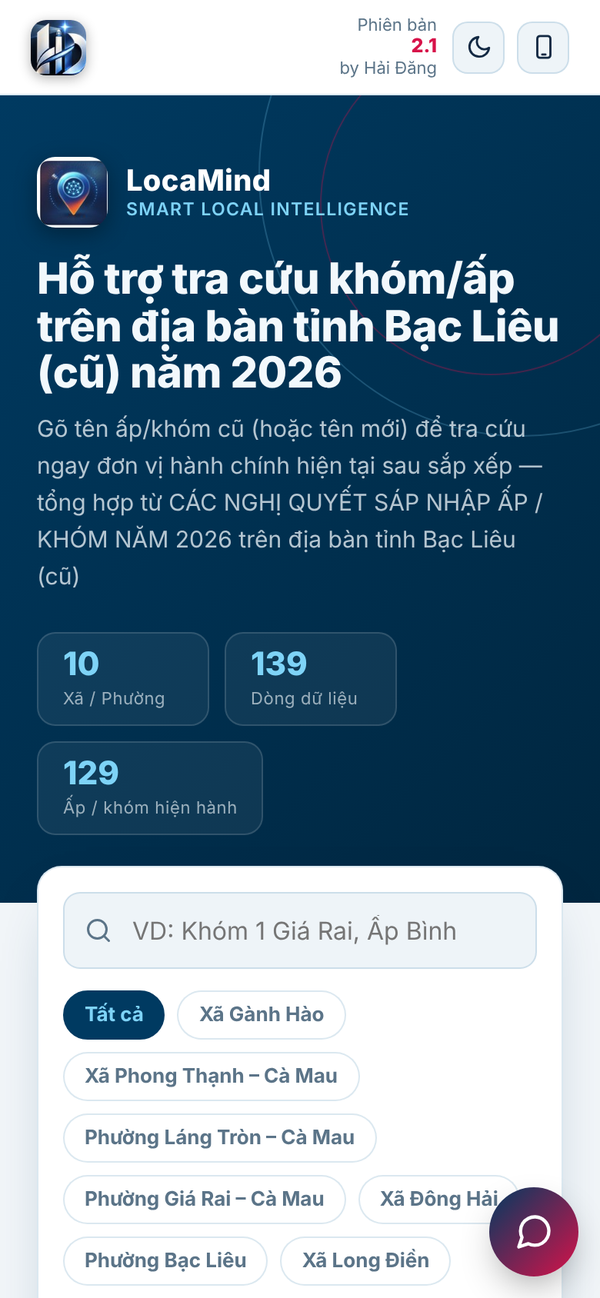
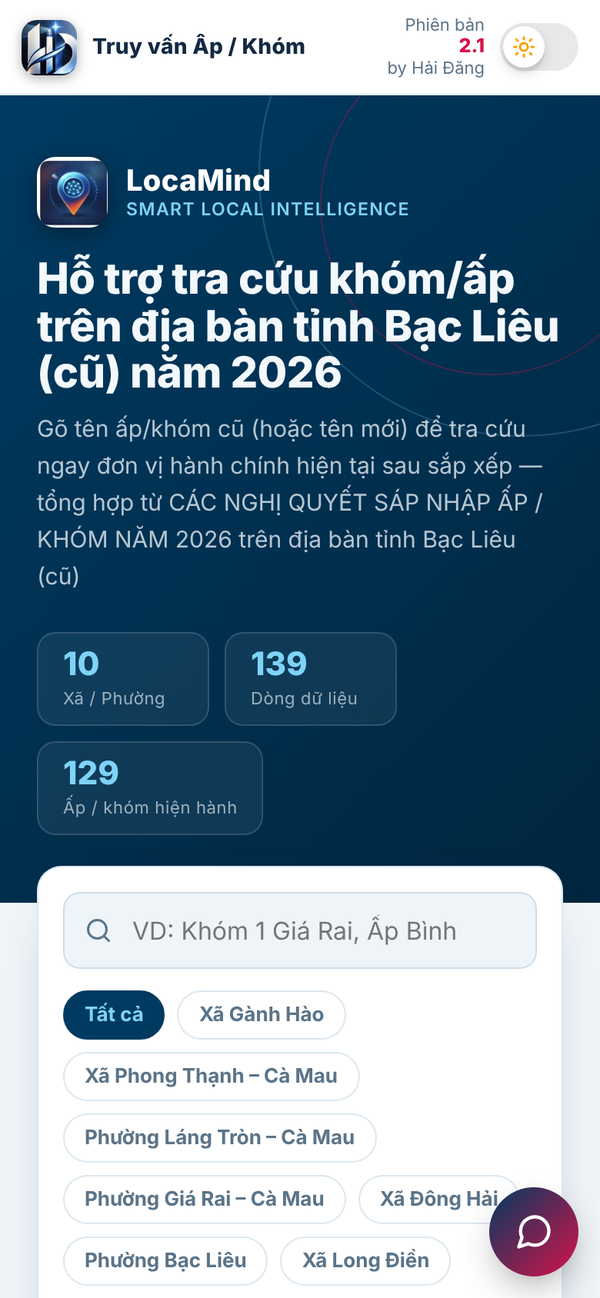
Công tắc sáng/tối kiểu iOS, đầu trang tự thích ứng màn hình, README trỏ về Vercel (#2)
- Thay nút sáng/tối bằng công tắc kiểu iOS (role="switch", hiệu ứng trượt, biểu tượng mặt trời/mặt trăng)
- Bỏ nút "xem dạng di động/máy tính": giao diện đã tự co giãn theo màn hình
- Đầu trang trên điện thoại hiện cả logo và tên (tự rút gọn khi màn hẹp) thay vì ẩn tên
- README: liên kết locamind.vercel.app, chụp lại ảnh giao diện

Claude-Session: https://claude.ai/code/session_01PeCG7Xj5ufj1dvFMBhtUjP

Changed region(s): [[0.03, 0.0, 0.51, 0.0616], [0.6, 0.0, 0.93, 0.0616], [0.57, 0.0308, 0.6, 0.0616]]

diff --git a/index.html b/index.html
@@ -48,15 +48,7 @@
     -webkit-font-smoothing:antialiased;
     transition:background .2s ease, color .2s ease;
   }
-  body.device-mobile-active{background:#d9e0e5;}
-  [data-theme="dark"] body.device-mobile-active{background:#03090f;}
-
   #appFrame{width:100%; transition:all .25s ease;}
-  #appFrame.device-mobile{
-    max-width:430px; margin:26px auto; border:10px solid #15202b;
-    border-radius:42px; overflow:hidden; max-height:880px; overflow-y:auto;
-    box-shadow:0 30px 60px -18px rgba(0,0,0,.5);
-  }
 
   .topbar{
     display:flex; align-items:center; justify-content:space-between;
@@ -69,13 +61,28 @@
   .topbar-right{display:flex; align-items:center; gap:8px; flex-shrink:0;}
   .version-badge{display:flex; flex-direction:column; align-items:flex-end; line-height:1.2; font-size:11px; color:var(--ink-soft); margin-right:2px;}
   .version-badge b{color:var(--vtb-red); font-size:12.5px; font-weight:800;}
-  .icon-btn{
-    width:34px; height:34px; border-radius:10px; border:1px solid var(--line);
-    background:var(--surface-soft); color:var(--ink); display:flex; align-items:center; justify-content:center;
-    cursor:pointer; transition:all .15s ease; flex-shrink:0;
+  /* Công tắc sáng/tối kiểu iOS */
+  .ios-switch{
+    position:relative; width:51px; height:31px; padding:0; border:none; border-radius:31px;
+    background:#e9e9eb; cursor:pointer; flex-shrink:0; transition:background .25s ease;
+    -webkit-tap-highlight-color:transparent;
   }
-  .icon-btn:hover{border-color:var(--vtb-blue); color:var(--vtb-blue);}
-  .icon-btn svg{width:17px; height:17px;}
+  .ios-switch[aria-checked="true"]{background:#34c759;}
+  .ios-switch:focus-visible{outline:2px solid var(--vtb-blue-light); outline-offset:2px;}
+  .ios-switch .knob{
+    position:absolute; top:2px; left:2px; width:27px; height:27px; border-radius:27px; background:#fff;
+    box-shadow:0 3px 8px rgba(0,0,0,.15), 0 3px 1px rgba(0,0,0,.06);
+    display:flex; align-items:center; justify-content:center;
+    transition:transform .3s cubic-bezier(.3,1.4,.5,1), width .2s ease;
+  }
+  .ios-switch:active .knob{width:33px;}
+  .ios-switch[aria-checked="true"] .knob{transform:translateX(20px);}
+  .ios-switch[aria-checked="true"]:active .knob{transform:translateX(14px);}
+  .ios-switch .knob svg{width:15px; height:15px;}
+  .ios-switch .ico-sun{color:#f5a300;}
+  .ios-switch .ico-moon{color:#1c3d5a; display:none;}
+  .ios-switch[aria-checked="true"] .ico-sun{display:none;}
+  .ios-switch[aria-checked="true"] .ico-moon{display:block;}
 
   .bg-texture{
     position:fixed; inset:0; z-index:-1;
@@ -224,7 +231,8 @@
     .row{grid-template-columns: 1fr 22px 1fr; padding:12px;}
     .arrow{width:22px; height:22px;}
     .arrow svg{width:11px; height:11px;}
-    .topbar-left .brandname{display:none;}
+    .topbar{flex-wrap:nowrap; padding:10px 14px;}
+    .topbar-left{flex:1 1 auto;}
   }
 
   /* --- LocaMind quick-lookup chat widget --- */
@@ -365,7 +373,6 @@
     *{transition:none !important;}
     body{background:#fff !important; color:#000;}
     .hero-inner{max-width:none; margin:0;}
-    #appFrame.device-mobile{max-width:none; max-height:none; overflow:visible; border:none; margin:0; box-shadow:none;}
     header.hero{background:none; color:#000; padding:0 0 6px; overflow:visible;}
     header.hero::before, header.hero::after{display:none;}
     h1.title{font-size:17px; color:#000; margin:0 0 4px;}
@@ -395,8 +402,12 @@
     </div>
     <div class="topbar-right">
       <span class="version-badge">Phiên bản <b>2.1</b><span>by Hải Đăng</span></span>
-      <button id="themeToggle" class="icon-btn" type="button" title="Chuyển giao diện sáng / tối" aria-label="Chuyển giao diện sáng / tối"></button>
-      <button id="deviceToggle" class="icon-btn" type="button" title="Xem dạng di động / máy tính" aria-label="Xem dạng di động / máy tính"></button>
+      <button id="themeToggle" class="ios-switch" type="button" role="switch" aria-checked="false" title="Giao diện tối" aria-label="Giao diện tối">
+        <span class="knob">
+          <svg class="ico-sun" viewBox="0 0 24 24" fill="none" stroke="currentColor" stroke-width="2.4" stroke-linecap="round" stroke-linejoin="round"><circle cx="12" cy="12" r="4"></circle><line x1="12" y1="2" x2="12" y2="4"></line><line x1="12" y1="20" x2="12" y2="22"></line><line x1="4.2" y1="4.2" x2="5.6" y2="5.6"></line><line x1="18.4" y1="18.4" x2="19.8" y2="19.8"></line><line x1="2" y1="12" x2="4" y2="12"></line><line x1="20" y1="12" x2="22" y2="12"></line><line x1="4.2" y1="19.8" x2="5.6" y2="18.4"></line><line x1="18.4" y1="5.6" x2="19.8" y2="4.2"></line></svg>
+          <svg class="ico-moon" viewBox="0 0 24 24" fill="currentColor"><path d="M21 12.8A9 9 0 1 1 11.2 3a7 7 0 0 0 9.8 9.8z"></path></svg>
+        </span>
+      </button>
     </div>
   </nav>
 
@@ -1329,7 +1340,7 @@ function exportHtml(){
   const q = function(sel){ return clone.querySelector(sel); };
   q('#appData').textContent = '\n/* DỮ LIỆU — cập nhật ' + new Date().toLocaleString('vi-VN') + ' — mỗi dòng là một bản ghi: region, old, new, note, stat */\nconst DATA = [\n' +
     rows.map(function(r){ return '  ' + JSON.stringify(r).replace(/</g, '\\u003c'); }).join(',\n') + '\n];\n';
-  ['#statRow', '#filterRow', '#results', '#locaChatMessages', '#toast', '#dataBanner', '#searchHint', '#themeToggle', '#deviceToggle', '#regionLine'].forEach(function(s){
+  ['#statRow', '#filterRow', '#results', '#locaChatMessages', '#toast', '#dataBanner', '#searchHint', '#regionLine'].forEach(function(s){
     const n = q(s); if(n) n.innerHTML = '';
   });
   q('#resultCount').textContent = '0';
@@ -1337,10 +1348,9 @@ function exportHtml(){
   q('#searchHint').setAttribute('hidden', '');
   q('#toast').className = 'toast';
   q('#searchClear').className = 'search-clear';
-  q('#appFrame').removeAttribute('class');
   q('#locaChatPanel').className = 'loca-chat-panel';
   q('#locaChatBadge').removeAttribute('style');
-  q('body').removeAttribute('class');
+  q('#themeToggle').setAttribute('aria-checked', 'false');
   clone.removeAttribute('data-theme');
   clone.querySelectorAll('img.js-logo').forEach(function(im){ im.removeAttribute('src'); });
   const html = '<!DOCTYPE html>\n' + clone.outerHTML + '\n';
@@ -1348,32 +1358,20 @@ function exportHtml(){
   toast('Đã tạo file HTML chứa ' + rows.length + ' dòng dữ liệu đang dùng.');
 }
 
-/* ---------- Giao diện sáng/tối + xem dạng di động ---------- */
-function sunIcon(){return '<svg viewBox="0 0 24 24" fill="none" stroke="currentColor" stroke-width="2" stroke-linecap="round" stroke-linejoin="round"><circle cx="12" cy="12" r="4"></circle><line x1="12" y1="2" x2="12" y2="4"></line><line x1="12" y1="20" x2="12" y2="22"></line><line x1="4.2" y1="4.2" x2="5.6" y2="5.6"></line><line x1="18.4" y1="18.4" x2="19.8" y2="19.8"></line><line x1="2" y1="12" x2="4" y2="12"></line><line x1="20" y1="12" x2="22" y2="12"></line><line x1="4.2" y1="19.8" x2="5.6" y2="18.4"></line><line x1="18.4" y1="5.6" x2="19.8" y2="4.2"></line></svg>';}
-function moonIcon(){return '<svg viewBox="0 0 24 24" fill="none" stroke="currentColor" stroke-width="2" stroke-linecap="round" stroke-linejoin="round"><path d="M21 12.8A9 9 0 1 1 11.2 3a7 7 0 0 0 9.8 9.8z"></path></svg>';}
-function desktopIcon(){return '<svg viewBox="0 0 24 24" fill="none" stroke="currentColor" stroke-width="2" stroke-linecap="round" stroke-linejoin="round"><rect x="3" y="4" width="18" height="12" rx="1.5"></rect><line x1="8" y1="20" x2="16" y2="20"></line><line x1="12" y1="16" x2="12" y2="20"></line></svg>';}
-function mobileIcon(){return '<svg viewBox="0 0 24 24" fill="none" stroke="currentColor" stroke-width="2" stroke-linecap="round" stroke-linejoin="round"><rect x="6" y="2" width="12" height="20" rx="2.5"></rect><line x1="10.5" y1="19" x2="13.5" y2="19"></line></svg>';}
-
+/* ---------- Giao diện sáng/tối ---------- */
 const THEME_KEY = 'locamind.theme';
 let isDark = (function(){
   const saved = lsGet(THEME_KEY);
   if(saved === 'dark' || saved === 'light') return saved === 'dark';
   return !!(window.matchMedia && window.matchMedia('(prefers-color-scheme: dark)').matches);
 })();
-let isMobilePreview = false;
 function applyTheme(){
   document.documentElement.setAttribute('data-theme', isDark ? 'dark' : 'light');
-  $('themeToggle').innerHTML = isDark ? sunIcon() : moonIcon();
-}
-function applyDevice(){
-  $('appFrame').classList.toggle('device-mobile', isMobilePreview);
-  document.body.classList.toggle('device-mobile-active', isMobilePreview);
-  $('deviceToggle').innerHTML = isMobilePreview ? desktopIcon() : mobileIcon();
+  $('themeToggle').setAttribute('aria-checked', isDark ? 'true' : 'false');
 }
 
 /* ---------- Gắn sự kiện ---------- */
 $('themeToggle').addEventListener('click', function(){ isDark = !isDark; lsSet(THEME_KEY, isDark ? 'dark' : 'light'); applyTheme(); });
-$('deviceToggle').addEventListener('click', function(){ isMobilePreview = !isMobilePreview; applyDevice(); });
 $('searchInput').addEventListener('input', function(e){ query = e.target.value; renderResults(); });
 function clearSearch(){
   query = ''; $('searchInput').value = '';
@@ -1407,7 +1405,6 @@ $('fileInput').addEventListener('change', function(e){
 $('btnHtml').addEventListener('click', exportHtml);
 
 applyTheme();
-applyDevice();
 setData(override ? override.rows : EMBEDDED);
 renderAll();
 

diff --git a/README.md b/README.md
@@ -10,7 +10,7 @@
 </p>
 
 <p align="center">
-  <a href="https://tekatoji4u.github.io/Localmind/"><b>👉 Dùng ngay trên trình duyệt</b></a>
+  <a href="https://locamind.vercel.app"><b>👉 Dùng ngay: locamind.vercel.app</b></a>
   &nbsp;·&nbsp; Phiên bản <b>2.1</b> &nbsp;·&nbsp; Design by <b>Hải Đăng</b>
 </p>
 
@@ -26,7 +26,8 @@
 - **Trợ lý LocaMind**: hỏi bằng câu tự nhiên, ví dụ *“ấp 3 Gành Hào giờ là gì?”*.
 - **Lọc theo xã/phường**, thống kê nhanh số đơn vị, số dòng dữ liệu.
 - **Tiện ích**: sao chép từng dòng, in danh sách, xuất Excel (.xlsx), nhập Excel/CSV để cập nhật dữ liệu, tải về bản HTML mới.
-- **Giao diện sáng/tối**, hiển thị tốt trên điện thoại, **lưu ra màn hình chính** như một ứng dụng (có icon riêng).
+- **Công tắc sáng/tối kiểu iOS**, tự nhớ lựa chọn; lần đầu mở sẽ theo chế độ của máy.
+- **Tự co giãn theo màn hình** điện thoại, máy tính bảng, máy tính; **lưu ra màn hình chính** như một ứng dụng (có icon riêng).
 - **Offline 100%**: không dùng thư viện, font hay CDN bên ngoài.
 
 ## Hình ảnh giao diện
@@ -54,7 +55,7 @@
 
 ## Cách sử dụng
 
-**Trên trình duyệt:** mở [trang web](https://tekatoji4u.github.io/Localmind/) và gõ tên ấp/khóm vào ô tìm kiếm.
+**Trên trình duyệt:** mở [locamind.vercel.app](https://locamind.vercel.app) và gõ tên ấp/khóm vào ô tìm kiếm.
 
 **Lưu ra màn hình điện thoại:**
 - *iPhone (Safari):* bấm nút **Chia sẻ** → **Thêm vào MH chính**.
